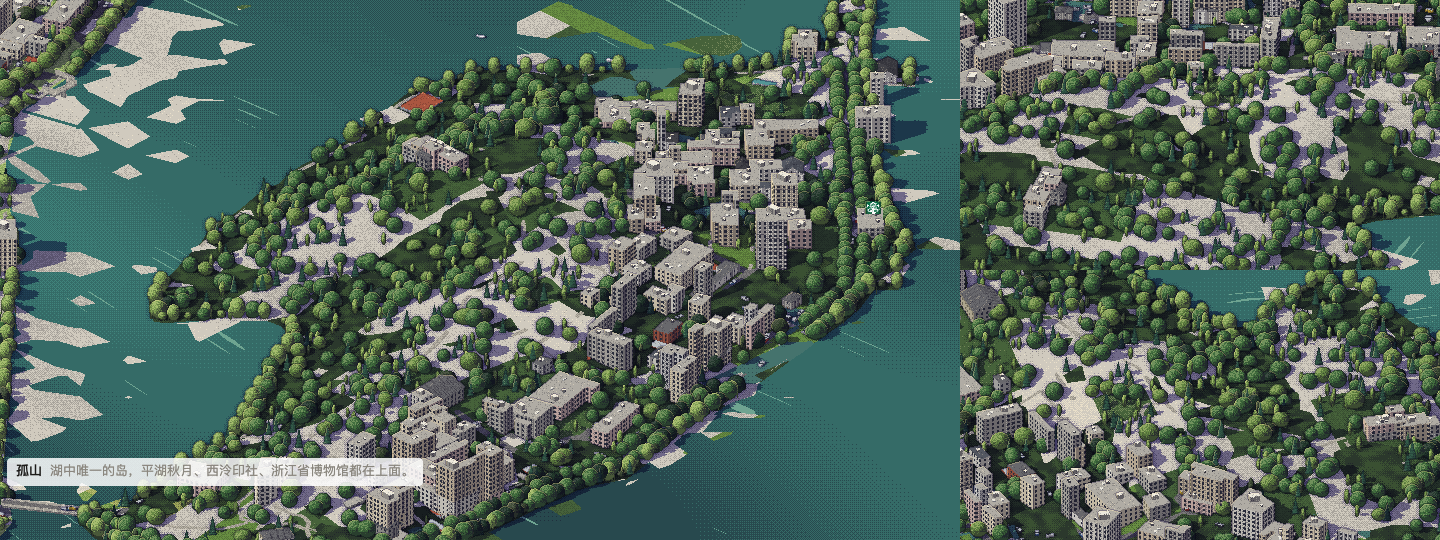
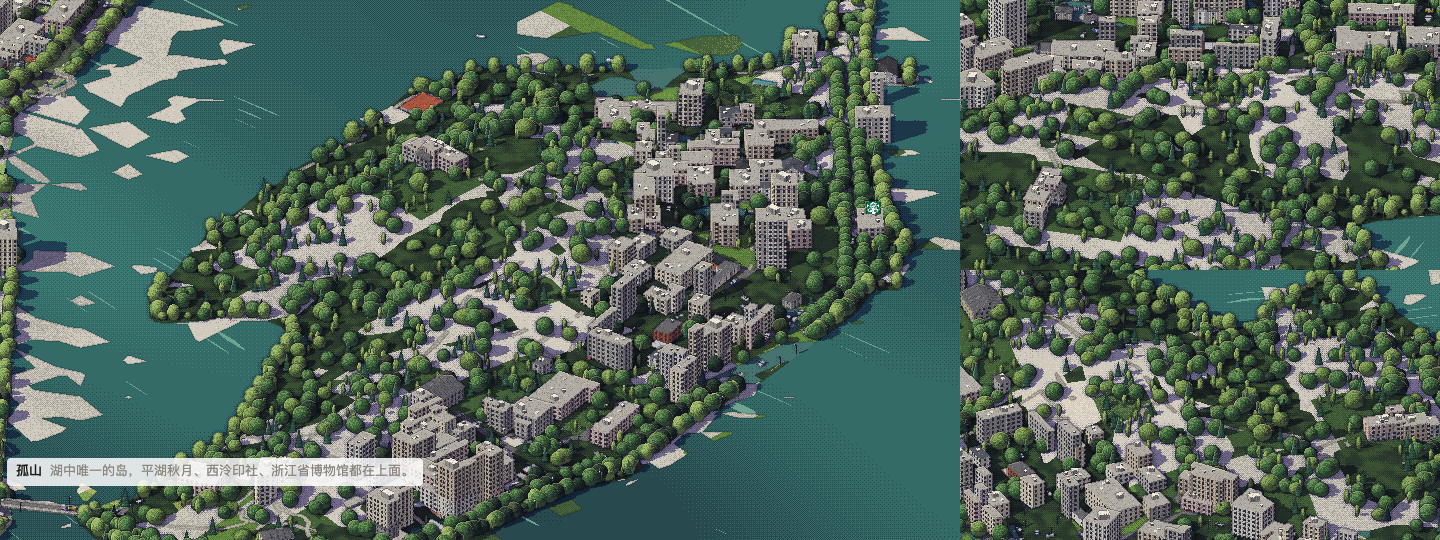
街道的画·墙与人（D092）：按原型给墙面加材质——住宅与公建的 60 厘米瓷砖横缝与错缝竖缝、农居 28 厘米砖缝、写字楼幕墙裙板的层线、厂房波纹板、高层 90 厘米竖分格；一层的一半改成底商——玻璃门面、门、檐口一条雨棚色带（palette 追加雨棚绿/红/蓝三色，按楼挑一）；行人从三盒升级为四盒——两条腿随步伐摆动；轿车加四个轮盒；PATH 沿线每 28 米两侧轮流一盏路灯（杆+挑臂+灯头，接影）；步行太阳阴影盒 300→200 米，街面影子边缘更利。npm test、shadows.cjs、浏览器全套 11 项全绿；定帧对比 D091→D092：56 帧里 23 帧变化（墙面材质与雨棚

diff --git a/app/src/life/traffic.js b/app/src/life/traffic.js
@@ -121,7 +121,7 @@ export class Traffic {
   place(tiles, time, camera, frame, which, colours) {
     this.count = 0;
     this.people = 0;
-    this.drawn = { cars: 0, boats: 0, people: 0 };
+    this.drawn = { cars: 0, boats: 0, people: 0, lamps: 0 };
     const { W, H, scale } = frame;
     this.camera = camera;
     if (camera.walking) {
@@ -148,6 +148,7 @@ export class Traffic {
         const street = STREETS[line.cls], water = WATERS[line.cls];
         if (street && which.cars) this.flow(line, n, street, time, tile, colours, 0.2, true);
         if (water && which.boats && (line.cls !== LAKE || which.lake)) this.flow(line, n, water, time, tile, colours, line.cls === LAKE ? 0.2 : 0, false);
+        if (which.lamps && street) this.lamps(line, n, tile, colours);
         if (which.people && PEOPLE[line.cls]) {
           // on the pavements of a street, to either side of it; along the middle of a pedestrian street or a path
           this.walk(line, n, PEOPLE[line.cls], time, tile, colours, line.cls === PEDESTRIAN || line.cls === PATH ? 0.3 : 1);
@@ -184,12 +185,40 @@ export class Traffic {
         const h = hash(k * 11 + 3, n * 13 + dir);
         if (isStreet) {
           this.box(x, y, p.z + 0.1, tx, ty, length, width, height, colours[CAR_COLOURS[Math.floor(h * CAR_COLOURS.length)]], colours[SILVER], kind);
+          // four dark wheels under the corners of the body, half of each showing past its side
+          const ax = tx * (length * 0.30), ay = ty * (length * 0.30);
+          const bx2 = ty * (width * 0.5), by2 = -tx * (width * 0.5);
+          for (const [cx2, cy2] of [[ax + bx2, ay + by2], [ax - bx2, ay - by2], [-ax + bx2, -ay + by2], [-ax - bx2, -ay - by2]]) {
+            this.box(x + cx2, y + cy2, p.z + 0.1, tx, ty, 0.62, 0.24, 0.36, colours[DARK], colours[DARK], KIND.CAR);
+          }
           this.drawn.cars++;
         } else {
           this.boat(kind, x, y, p.z, tx, ty, h, colours);
           this.drawn.boats++;
         }
       }
+    }
+  }
+
+  // street lamps along a line: every twenty-eight metres, either side of the road in turn — a pole, an
+  // arm reaching over the carriageway, and the lamp on the end of it. By day the lamp is a pale box;
+  // at night the page asks for it lit (walk.js and the renderer know the hour) and it shines.
+  lamps(line, n, tile, colours) {
+    const count = Math.max(1, Math.round(line.length / 28));
+    for (let k = 0; k < count; k++) {
+      const side = k % 2 === 0 ? 1 : -1;
+      const s = Math.min(line.length - 4, (k + hash(n * 3 + 1, k * 5) * 0.5) * 28);
+      if (s <= 0) continue;
+      const p = this.spot;
+      along(line.points, s, p);
+      const lane = side * (line.width + 0.9);
+      const x = tile.x0 + p.x + p.ty * lane, y = tile.y0 + p.y - p.tx * lane;
+      if (!this.near(x, y)) continue;
+      const dark = colours[DARK], pale = colours[CABIN];
+      this.box(x, y, p.z + 0.14, p.tx, p.ty, 0.14, 0.14, 5.3, dark, dark, 0);                                        // the pole
+      this.box(x - side * p.ty * 0.9, y + side * p.tx * 0.9, p.z + 5.32, p.tx, p.ty, 1.1, 0.1, 0.1, dark, dark, 0);  // the arm over the road
+      this.box(x - side * p.ty * 1.4, y + side * p.tx * 1.4, p.z + 5.26, p.tx, p.ty, 0.55, 0.24, 0.16, pale, pale, 0); // the lamp
+      this.drawn.lamps++;
     }
   }
 
@@ -218,9 +247,11 @@ export class Traffic {
       const x = tile.x0 + p.x + ty * lane, y = tile.y0 + p.y - tx * lane;
       if (!this.near(x, y)) continue;
       const cloth = colours[CLOTHES[Math.floor(hash(k * 7, n + 5) * CLOTHES.length)]];
-      // legs, body and head: three boxes make a figure a few pixels tall
+      // two legs swinging as the person walks, the body on them, the head on that: four boxes make a figure
       const [ll, lw, lh] = SIZE[KIND.LEGS], [bl, bw, bh] = SIZE[KIND.BODY], [hl, hw, hh] = SIZE[KIND.HEAD];
-      this.figure(x, y, p.z + 0.1, tx, ty, ll, lw, lh, colours[DARK], colours[DARK], KIND.LEGS);
+      const stride = 0.12 * Math.sin(time * 5 + k * 2.3 + n * 1.7);
+      this.figure(x + tx * stride, y + ty * stride, p.z + 0.1, tx, ty, ll * 0.7, lw * 0.48, lh, colours[DARK], colours[DARK], KIND.LEGS);
+      this.figure(x - tx * stride, y - ty * stride, p.z + 0.1, tx, ty, ll * 0.7, lw * 0.48, lh, colours[DARK], colours[DARK], KIND.LEGS);
       this.figure(x, y, p.z + 0.1 + lh, tx, ty, bl, bw, bh, cloth, cloth, KIND.BODY);
       this.figure(x, y, p.z + 0.1 + lh + bh, tx, ty, hl, hw, hh, colours[SKIN], colours[DARK], KIND.HEAD);
       this.drawn.people++;

diff --git a/app/src/gl/city-shaders.js b/app/src/gl/city-shaders.js
@@ -354,6 +354,7 @@ uniform float uMid;                      // 1 once a pixel is under two metres: 
 uniform int uWindow;                    // the palette index of window glass, of wood, of temple red
 uniform int uWood;
 uniform int uRed;
+uniform int uAwning;                    // of the first of three awning colours (green, red, blue, consecutive)
 uniform float uLift;                    // what the vertex shader raised the model by (a landmark on its ground)
 const int JIANGNAN = 1, WALKUP = 2, FARMHOUSE = 3, TOWER = 4, OFFICE = 5, INDUSTRIAL = 6, PUBLIC = 7, TEMPLE = 8, STATION = 9, SHED = 10;
 // by archetype: metres between window bays; and where in a bay a window opens (across, up the storey)
@@ -396,16 +397,38 @@ void main() {
       if (archetype == OFFICE || archetype == STATION) {
         // a curtain wall: glass between mullions on every storey
         level += (bay > open.x && bay < open.y && up > open.z && up < open.w) ? -1.0 : 0.8;
+        if (!(bay > open.x && bay < open.y && up > open.z && up < open.w) && up < 0.1) level -= 0.5;   // the slab line in the spandrel
       } else if (archetype == INDUSTRIAL) {
         if (up > open.z && up < open.w && fract(vFace.x / 1.2) > 0.12) colour = uWindow;     // a strip of windows under the eave
+        level -= (fract(vFace.x / 0.4) > 0.5 ? 0.35 : 0.0);                                  // corrugated sheeting
       } else if (archetype != SHED) {
         if (bay > open.x && bay < open.y && up > open.z && up < open.w) colour = uWindow;     // a window
         else if (archetype == TOWER && up < 0.07) level -= 1.0;                                 // the line of a floor slab
         else if (archetype == TEMPLE && bay < 0.05) colour = uRed;                              // a column
+        // the wall's own material, where no opening has taken the pixel
+        bool opening = colour == uWindow || colour == uWood || colour == uRed;
+        if (!opening) {
+          if (archetype == WALKUP || archetype == PUBLIC) {
+            // courses of tile every sixty centimetres, the vertical joints offset half a course a storey
+            if (fract((vWorld.z - vSize.x - uLift) / 0.6) < 0.10) level -= 0.6;
+            if (fract(vFace.x / 1.2 + floor(storeys) * 0.5) < 0.05) level -= 0.5;
+          } else if (archetype == FARMHOUSE) {
+            if (fract((vWorld.z - vSize.x - uLift) / 0.28) < 0.14) level -= 0.7;               // a course of brick every 28 cm
+          } else if (archetype == TOWER) {
+            if (fract(vFace.x / 0.9) < 0.035) level -= 0.4;                                    // a mullion joint every 90 cm
+          }
+        }
         if (storeys < 1.0) {
-          // the ground floor: a door, and on the plainer houses a plinth under it
-          if (bay > 0.42 && bay < 0.56 && up < 0.78) colour = archetype == TEMPLE ? uRed : uWood;
-          else if ((archetype == WALKUP || archetype == FARMHOUSE || archetype == INDUSTRIAL) && up > 0.9) level -= 1.0;
+          // the ground floor: on half the plainer houses a shop — glass, a door, a band of awning; the rest a door
+          float shop = archetype != TEMPLE && hashAt(vec2(vLook.w * 17.31, 7.7)) < 0.55 ? 1.0 : 0.0;
+          if (shop > 0.5) {
+            if (bay > 0.06 && bay < 0.94 && up > 0.12 && up < 0.68) colour = uWindow;
+            else if (up >= 0.68 && up < 0.82 && bay > 0.06 && bay < 0.94) colour = uAwning + int(hashAt(vec2(vLook.w * 3.1, 9.2)) * 3.0);
+            else if (bay > 0.40 && bay < 0.52 && up >= 0.68) colour = uWood;
+          } else {
+            if (bay > 0.42 && bay < 0.56 && up < 0.78) colour = archetype == TEMPLE ? uRed : uWood;
+            else if ((archetype == WALKUP || archetype == FARMHOUSE || archetype == INDUSTRIAL) && up > 0.9) level -= 1.0;
+          }
         }
       }
     }

diff --git a/app/src/render/city.js b/app/src/render/city.js
@@ -95,6 +95,7 @@ export class CityRenderer extends StyleRenderer {
     this.window = place('window_dark');
     this.wood = place('wood_dark');
     this.red = place('temple_red');
+    this.awning = place('awning_green');
     this.mark = place('road_mark');
     this.trafficColours = TRAFFIC_COLOURS.map(name => place(name));
     this.treeCell = index.treeCell;
@@ -328,7 +329,7 @@ export class CityRenderer extends StyleRenderer {
     // facades once a pixel is under about 0.8 m: the shader draws them from half of uDetail on
     buildings.set('uDetail', Math.min(1, Math.max(0, city.scale - 0.6)))
       .set('uMid', Math.min(1, Math.max(0, city.scale - 0.3)))
-      .set('uWindow', this.window).set('uWood', this.wood).set('uRed', this.red).set('uLift', 0);
+      .set('uWindow', this.window).set('uWood', this.wood).set('uRed', this.red).set('uAwning', this.awning).set('uLift', 0);
     for (const tile of tiles) {
       if (!tile.buildings) continue;
       buildings.set('uProps', this.bind(FIRST_FREE_UNIT, tile.props)).set('uOffset', [tile.x0 - city.x, tile.y0 - city.y]);
@@ -487,7 +488,7 @@ export class CityRenderer extends StyleRenderer {
     const right = [-dir[1] / flat, dir[0] / flat, 0];                        // across the sun's picture, level with the ground
     const up = cross(dir, right);
 
-    const halfU = this.walkActive() ? 300 : this.W / (2 * city.scale) + 64, halfV = this.walkActive() ? 300 : this.H / (2 * city.scale * city.sinPitch) + 64;
+    const halfU = this.walkActive() ? 200 : this.W / (2 * city.scale) + 64, halfV = this.walkActive() ? 200 : this.H / (2 * city.scale * city.sinPitch) + 64;
     let low = Infinity, high = -Infinity;
     for (const tile of tiles) {
       low = Math.min(low, tile.floor);
@@ -584,8 +585,8 @@ export class CityRenderer extends StyleRenderer {
   updateLife(tiles) {
     const { gl, city, W, H } = this;
     const walking = this.walkActive();
-    const which = walking ? { cars: true, boats: true, lake: true, people: true }
-      : { cars: city.scale >= CAR_SCALE, boats: true, lake: city.scale >= LAKE_BOAT_SCALE, people: city.scale >= PERSON_SCALE };
+    const which = walking ? { cars: true, boats: true, lake: true, people: true, lamps: true }
+      : { cars: city.scale >= CAR_SCALE, boats: true, lake: city.scale >= LAKE_BOAT_SCALE, people: city.scale >= PERSON_SCALE, lamps: city.scale >= 1.1 };
     this.drawn.life = this.traffic.place(tiles, this.time, city, { W, H, scale: city.scale }, which, this.trafficColours);
     if (walking) this.walk.place(this.traffic, this.trafficColours);   // the player walks among them
     const { count, people, boxes, folks } = this.traffic;
